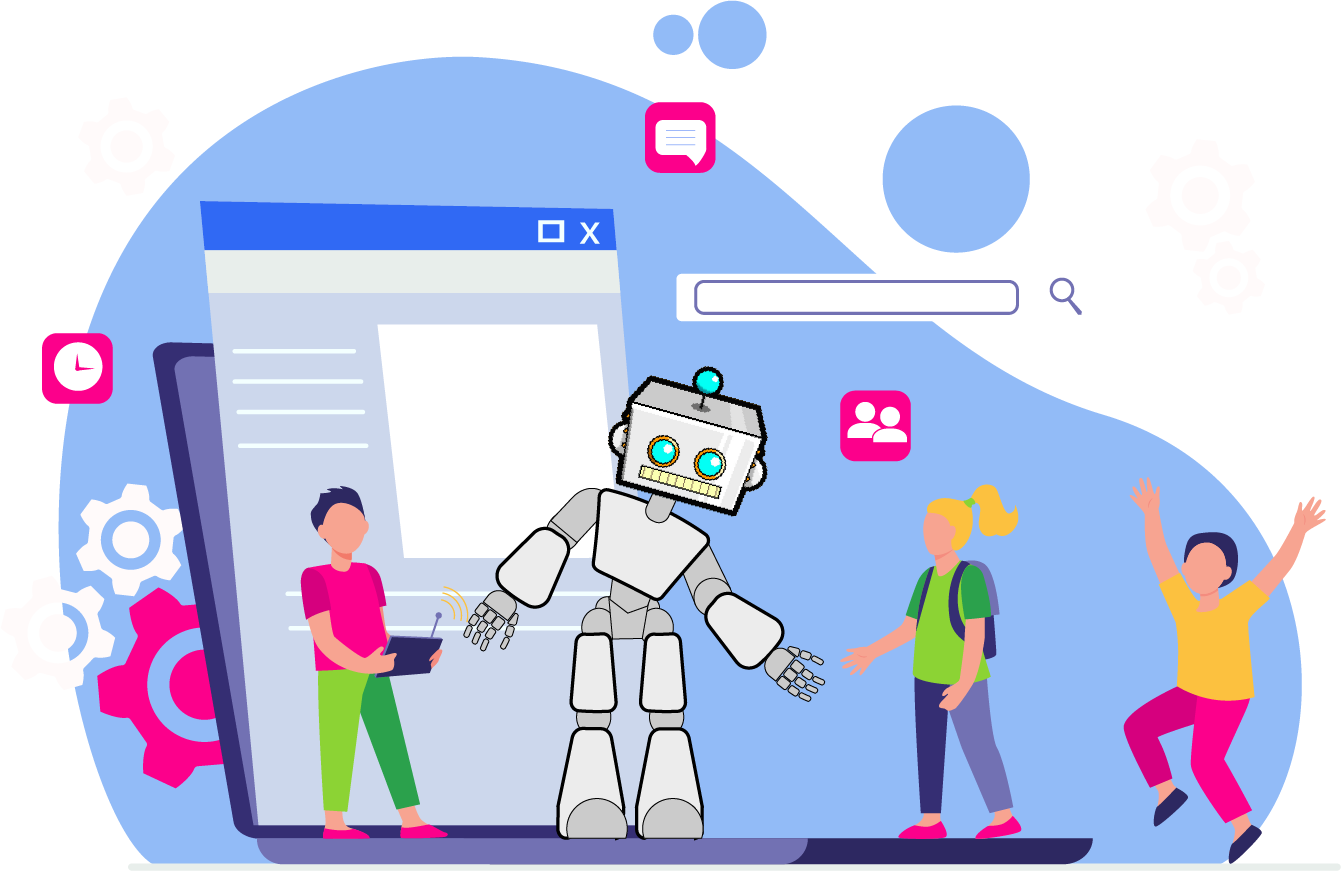
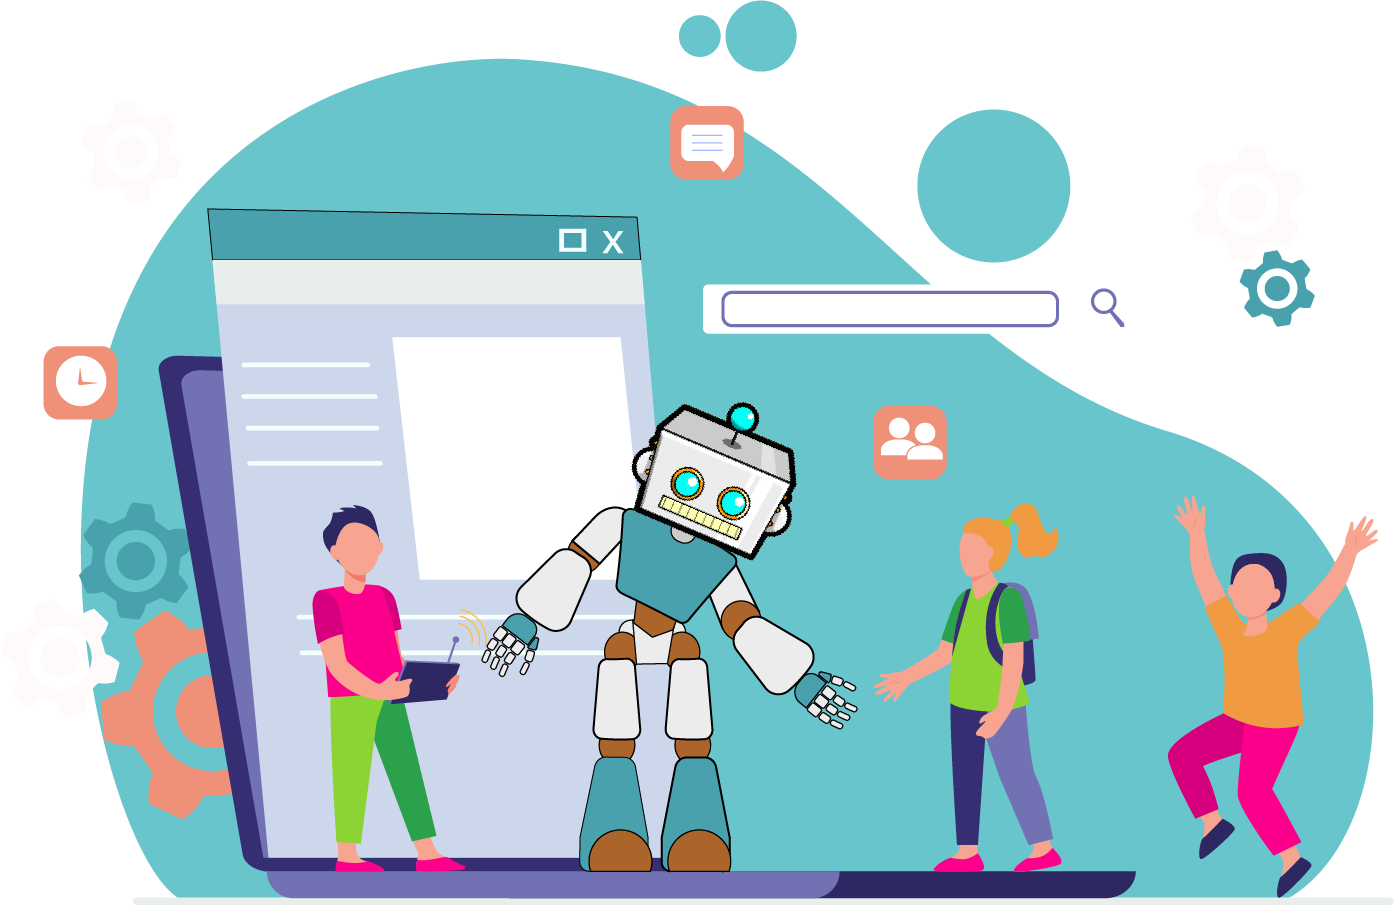
updates info about bomberbot

diff --git a/index.html b/index.html
@@ -96,7 +96,7 @@
                     <div class="col-lg-6 col-xl-7">
                         <div class="image-container">
                             <div class="img-wrapper">
-                                <a href='https://www.freepik.es/vectores/escuela'><img class="img-fluid" src="images/portada.png" alt="alternative"></a>
+                                <a href='https://www.freepik.es/vectores/escuela'><img class="img-fluid" src="images/portada.svg" alt="alternative"></a>
                             </div> <!-- end of img-wrapper -->
                         </div> <!-- end of image-container -->
                     </div> <!-- end of col -->
@@ -126,8 +126,8 @@
                             <img class="img-fluid" src="images/description-1.png" alt="alternative">
                         </div>
                         <div class="card-body">
-                            <h4 class="card-title">Lists Builder</h4>
-                            <p>It's very easy to start creating email lists for your marketing actions. Just create your Tivo account</p>
+                            <h4 class="card-title">Education platform</h4>
+                            <p>With Bomberbot, you can help your students become active and succesful participants of our increasingly digitizing society</p>
                         </div>
                     </div>
                     <!-- end of card -->
@@ -138,8 +138,8 @@
                             <img class="img-fluid" src="images/description-2.png" alt="alternative">
                         </div>
                         <div class="card-body">
-                            <h4 class="card-title">Campaign Tracker</h4>
-                            <p>Campaigns is a feature we've developed since the beginning because it's at the core of Tivo's functionalities</p>
+                            <h4 class="card-title">Three education programs</h4>
+                            <p>In the different programs, students will develop a basic understanding of computing, digital skills, computing and media literacy</p>
                         </div>
                     </div>
                     <!-- end of card -->
@@ -150,8 +150,8 @@
                             <img class="img-fluid" src="images/description-3.png" alt="alternative">
                         </div>
                         <div class="card-body">
-                            <h4 class="card-title">Analytics Tool</h4>
-                            <p>Tivo collects customer data in order to help you analyse different situations and take required action</p>
+                            <h4 class="card-title">Students progress</h4>
+                            <p>Teachers can receive reports of assignments completed by students and can also create new challenges to be completed</p>
                         </div>
                     </div>
                     <!-- end of card -->
@@ -559,7 +559,7 @@
                         <ul class="list-unstyled li-space-lg p-small">
                             <li class="media">
                                 <i class="fas fa-map-marker-alt"></i>
-                                <div class="media-body">22 Innovative, San Francisco, CA 94043, US</div>
+                                <div class="media-body">Zonamerica, Cali, Street 36 nro. 128-321, CO</div>
                             </li>
                             <li class="media">
                                 <i class="fas fa-envelope"></i>
